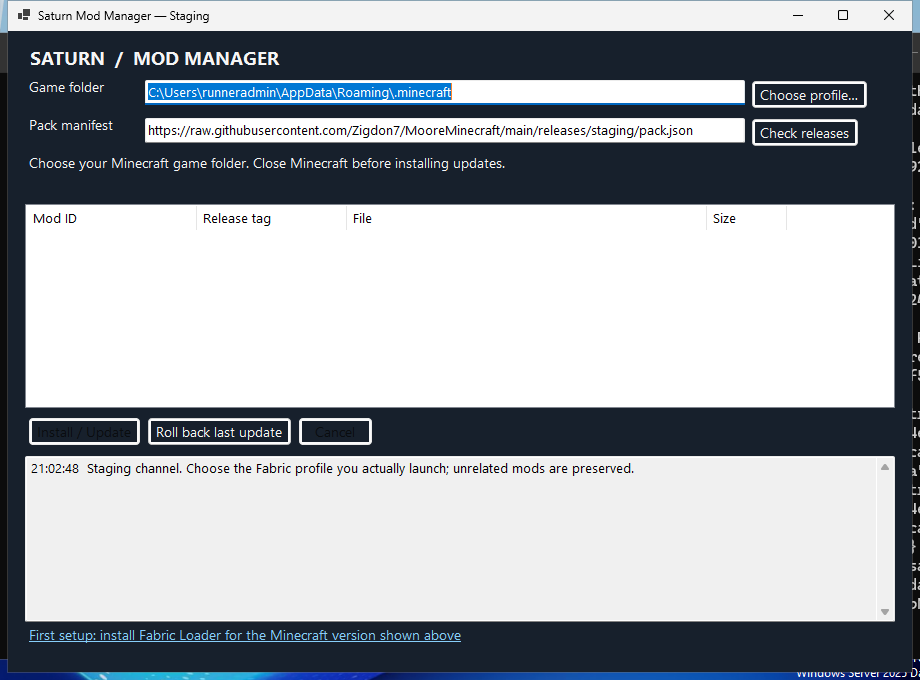
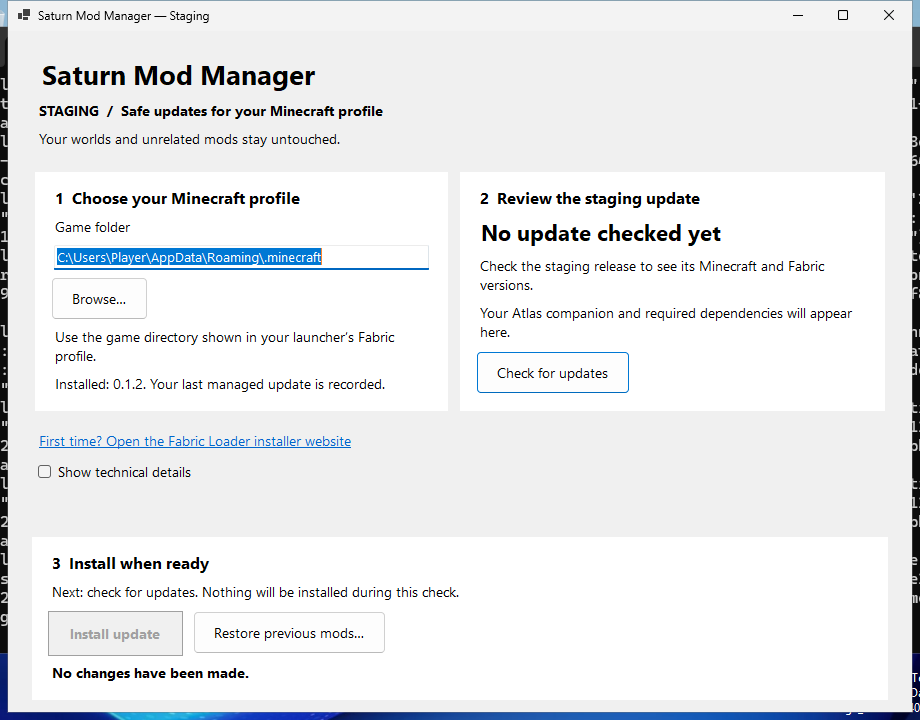
Deliver verified UI review preview and record independent ratings honestly

diff --git a/releases/design-preview/README.md b/releases/design-preview/README.md
@@ -1,0 +1,59 @@
+# Saturn UI review preview 0.1.3
+
+Controlled staging review build. **The all-categories 9/10 acceptance gate is still open.**
+Production and the normal staging pack manifest are unchanged.
+
+## Windows manager
+
+Download `Saturn-Mod-Manager.exe`, close the old manager and run this copy.
+The manager itself is replaced by downloading this EXE; pack manifests install
+JARs only and never execute a downloaded program. Windows x64; .NET 10
+self-contained; manager version 0.1.3, unsigned.
+
+Its default channel still points at the existing normal staging pack. You can
+review the new manager without changing installed mods.
+
+## Optional: test the redesigned Atlas client on staging
+
+Minecraft Java **26.3**, Fabric Loader **0.20.1**, Fabric API **0.165.2+26.3**.
+Atlas companion **0.1.3-dev**. No server/backend protocol change.
+
+1. Close Minecraft. Select the game folder used by your Fabric test profile.
+2. Expand **Show technical details** and set **Pack manifest URL** to:
+   `https://github.com/Zigdon7/MooreMinecraft/releases/download/design-preview-v0.1.3/pack.json`
+3. **Check for updates**, then **Install update**. Launch that same Fabric profile
+   and join the existing staging server on **25566**.
+
+M opens Atlas. The **Text** button provides a text/narrated map alternative;
+**HUD** configures visibility, sizes, corners and text mode. Optional shortcuts
+can be assigned in Minecraft Controls. Utility views support 240×150 scaled GUI
+units; smaller sizes offer a bounded Back control with resize guidance.
+
+Previous managed files are backed up. **Restore previous mods…** rolls back the
+last completed managed update. To return to the normal staging channel, restore
+this manifest URL and check/update:
+`https://raw.githubusercontent.com/Zigdon7/MooreMinecraft/main/releases/staging/pack.json`
+
+## Provenance and evidence
+
+Source: `591848db156221ac4488714c6f14630bfa1a3c19`.
+CI: https://github.com/Zigdon7/MooreMinecraft/actions/runs/42909115590
+
+- Rust core: 8 passed. Java client: 36 passed. Updater engine: 13 passed.
+- Client JAR/WASM and Windows EXE builds passed.
+- 14 native Windows cases passed: initial, checked, keyboard, UIA expansion,
+  busy, success, error, details, narrow, enlarged text, combined scaling/busy/error,
+  and long folder/release values. Direct UIA uses a bounded MTA worker.
+- `windows-ui-evidence.zip` contains genuine EXE screenshots, UIA structures,
+  keyboard/focus traces and provider results. Offline preview fixtures simulate
+  UI states; those images are not proof of a completed real installation.
+- Two independent GPT-6.1 Sol reviewers iterated without reading one another's
+  reports. Final captured-manager visual scores: hierarchy 9, layout 9,
+  readability 9, consistency/polish 8.5, clarity 9. Not rounded to all-9.
+- Runtime accessibility remains unverified: Narrator speech, real Windows
+  DPI/text-size/contrast themes, actual confirmation/cancel/restore keyboard flows.
+  Atlas actual in-game rendering/narration/multiplayer acceptance is also pending.
+
+SHA-256 digests and sizes are pinned in `pack.json`; all release assets have
+`SHA256SUMS.txt` entries. No production deployment, world reset or server binary
+replacement is part of this preview.

diff --git a/tools/mod-manager/README.md b/tools/mod-manager/README.md
@@ -3,11 +3,11 @@ One-time portable EXE; subsequent mod updates are selected in the manager, not b
 
 1. Install Fabric Loader 0.20.1 for Minecraft Java 26.3 once.
 2. Run `Saturn-Mod-Manager.exe`, select the game directory used by that Fabric profile.
-3. **Check releases**, then close Minecraft and choose **Install / Update**.
+3. **Check for updates**, review the target versions, then close Minecraft and choose **Install update**.
 4. Launch the same Fabric profile. **M** opens/closes the Atlas; the minimap is at top right.
 
 Default source: `https://raw.githubusercontent.com/Zigdon7/MooreMinecraft/main/releases/staging/pack.json`.
-The staging manifest pins exact public GitHub release tags/assets, sizes, SHA-256 hashes and Fabric mod IDs. This manager installs JARs only; it does not download/run an executable from a pack manifest, install Minecraft, change accounts/worlds, or replace the launcher.
+Technical details (including the manifest URL, exact files and operation log) are collapsed by default. The staging manifest pins exact public GitHub release tags/assets, sizes, SHA-256 hashes and Fabric mod IDs. This manager installs JARs only; it does not download/run an executable from a pack manifest, install Minecraft, change accounts/worlds, or replace the launcher.
 
 Updates download and verify before changing mods. Existing manually installed versions are migrated only when their declared Fabric IDs match a managed mod. Unrelated mods remain untouched. Managed local edits and unexpected filename collisions are refused. Backups and a journal support rollback and interrupted-install recovery. Close Minecraft before updating. **Roll back last update** restores the previous managed mod set.
 
@@ -17,6 +17,19 @@ The EXE is unsigned and self-contained (no separate .NET installation required).
 `dotnet run --project Tests/Saturn.Manager.Tests.csproj`
 
 `dotnet publish Windows/Saturn.ModManager.csproj -c Release -r win-x64 --self-contained -o publish/win-x64`
+
+## UI review and accessibility evidence
+
+The redesign uses native Windows controls/system colors, explicit accessible labels,
+keyboard mnemonics and live status. Install/status stay visible while setup/details
+scroll. Folder editing and technical details are tested with keyboard navigation and
+an isolated MTA UI Automation client, including expand/collapse transitions.
+
+CI captures initial, ready, busy, success, retry, details, narrow and 150%-font
+fixtures. `--ui-preview <state>` is an **offline developer fixture**, not a normal
+installation mode. Fixtures do not fetch or modify game files. Actual Narrator,
+contrast themes and desktop DPI still require interactive acceptance; fixture
+font enlargement is not desktop-DPI proof. See [review evidence](docs/DESIGN-REVIEW.md).
 
 ## Native Windows smoke-test screenshot
 ![Native Windows updater window](docs/windows-smoke.png)

diff --git a/tools/mod-manager/docs/DESIGN-REVIEW.md b/tools/mod-manager/docs/DESIGN-REVIEW.md
@@ -69,3 +69,41 @@ and expansion deliberately focuses the path field. Preview-only traces record
 geometry passes and Enter/Leave events for diagnosis. Final CI must establish
 whether the correction fixes the regression; the hypothesis is not a passing
 result by itself.
+
+The first trace disproved a geometry storm (three passes only); the synchronous
+UIA toggle stalled UI dispatch. Structural visibility changes are now deferred
+until after the toggle callback, and keyboard tests expand with Space. A separate,
+bounded MTA worker retains direct UIA expand/collapse coverage for both editors.
+The a50a8b7 native run passed both paths. This follows Microsoft's
+[UI Automation threading guidance](https://learn.microsoft.com/en-us/windows/win32/winauto/uiauto-threading),
+but that guidance and the test result do not by themselves identify every cause
+of the earlier hang or prove Narrator speech quality.
+
+## Final review build: 591848d
+
+[Native CI 42909115590](https://github.com/Zigdon7/MooreMinecraft/actions/runs/42909115590)
+passed all 14 Windows scenarios, including the four combined font/narrow/busy/
+error/long-value stress captures. Keyboard expansion/navigation preserves the
+profile path, detects focus traps and reaches the key actions. The isolated MTA
+worker passes direct folder/details expansion/collapse. Core suites: Java 36,
+Rust 8, updater 13; all zero failures. The early provider/focus hypothesis was
+investigated rather than removing a failing accessibility assertion.
+
+Final independent visual review of 8 base + 4 stress captures: hierarchy 9,
+layout 9, typography 9, consistency/polish **8.5**, clarity 9. No blocking visual
+issue. Reviewer recommends user runtime testing rather than speculative redesign.
+The half-point is not rounded up. Accessibility reviewer rates the evidenced
+manager keyboard/semantics/contrast/scaling readiness at 8, feedback/prevention 9;
+Atlas source-based readiness remains 7–8 without an actual game render.
+
+[Downloadable review preview](https://github.com/Zigdon7/MooreMinecraft/releases/tag/design-preview-v0.1.3)
+includes the EXE, client JAR, pinned opt-in manifest, checksums and genuine Windows
+evidence archive. This is not an all-categories-9 acceptance or a production
+deployment. The normal staging manifest is unchanged. See
+[review instructions](../../../releases/design-preview/README.md).
+
+Remaining owner/runtime gate: real Minecraft screenshots and keyboard/narrator
+checks; actual Windows Narrator, real 150/200% DPI/text enlargement and contrast
+themes; keyboard activation of install/restore confirmation and cancellation.
+Owner indicated they will test later. Resume the same review against that
+runtime evidence; do not announce the target reached before it is supported.
